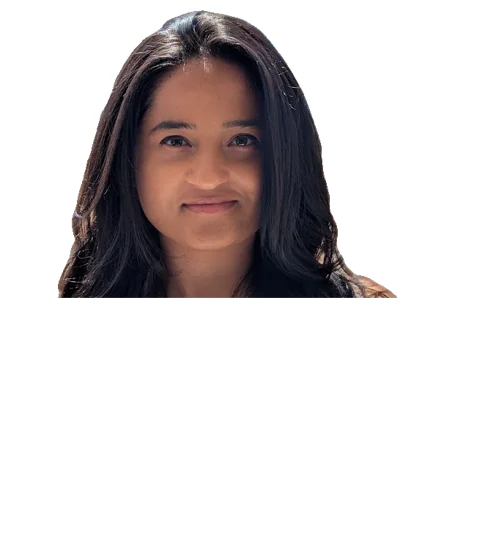
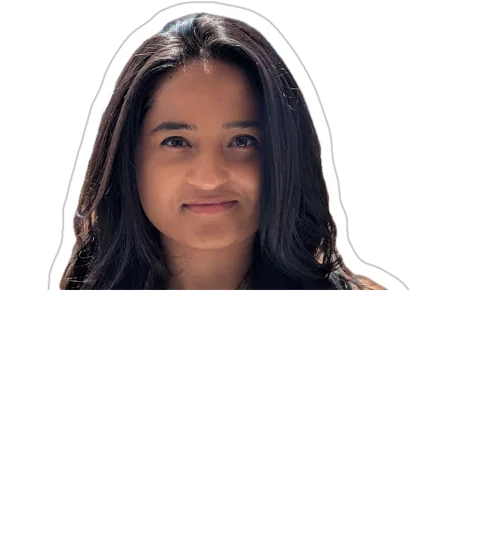
Why me cutout: back to the two-layer version, loop 4s instead of 5s
Claude-Session: https://claude.ai/code/session_01GC3vSxPiEHdqQLqLq9626o

Changed region(s): [[0.0938, 0.0, 0.8438, 0.5504], [0.3125, 0.214, 0.4062, 0.2752], [0.4688, 0.214, 0.5312, 0.2752]]

diff --git a/index.html b/index.html
@@ -1105,17 +1105,13 @@ footer nav a[href]{background:none!important;color:#E4E9EF!important;padding:0!i
 .ag-pop{position:absolute;right:40px;bottom:calc(100% - 84px);width:250px;aspect-ratio:480/556;z-index:0}
 .ag-pop img{position:absolute;inset:0;width:100%;height:100%}
 .ag-wrap .ag-card{position:relative;z-index:1}
-.ag-headl{transform-origin:44.9% 50.9%}
-.ag-hair{transform-origin:44.9% 39%}
-.ag-body{transform-origin:50% 100%}
+.ag-headl{transform-origin:44.9% 50.8%}
 @media (prefers-reduced-motion:no-preference){
-.ag-headl{animation:agNod 2.6s cubic-bezier(.45,0,.3,1.5) infinite}
-.ag-hair{animation:agHair 2.6s cubic-bezier(.45,0,.3,1.4) infinite}
-.ag-body{animation:agShrug 2.6s ease-in-out infinite}
+.ag-headl{animation:agNod 4s cubic-bezier(.5,0,.3,1.4) infinite}
+.ag-body{animation:agBob 4s ease-in-out infinite}
 }
-@keyframes agNod{0%,6%{transform:rotate(0)}14%,34%{transform:rotate(-11deg) translateX(-3px)}42%,62%{transform:rotate(9deg) translate(3px,-3px)}70%,76%{transform:rotate(-3deg)}84%,100%{transform:rotate(0)}}
-@keyframes agHair{0%,10%{transform:rotate(0)}18%,36%{transform:rotate(-9deg) skewX(4deg)}46%,64%{transform:rotate(8deg) skewX(-4deg)}74%,80%{transform:rotate(-2deg)}88%,100%{transform:rotate(0)}}
-@keyframes agShrug{0%,8%{transform:translateY(0) rotate(0)}16%,32%{transform:translateY(-7px) rotate(-2.5deg)}44%,60%{transform:translateY(-4px) rotate(2.5deg)}72%,100%{transform:translateY(0) rotate(0)}}
+@keyframes agNod{0%,14%{transform:rotate(0)}18%,34%{transform:rotate(-8deg)}38%,54%{transform:rotate(6deg) translateY(-2px)}58%,62%{transform:rotate(-3deg)}66%,100%{transform:rotate(0)}}
+@keyframes agBob{0%,100%{transform:translateY(0)}50%{transform:translateY(-3px)}}
 @media (max-width:900px){.ag-wrap{margin-top:140px}.ag-pop{width:170px;right:14px;bottom:calc(100% - 56px)}}
 </style>
 </head>
@@ -1200,7 +1196,7 @@ footer nav a[href]{background:none!important;color:#E4E9EF!important;padding:0!i
 <section id="agency" class="ag">
 <div class="ag-in">
 <div class="ag-head reveal"><span class="wn-kick">Why me</span><h2>Not your typical agency.</h2><p>Agencies sell virality. I build trust that lasts.</p></div>
-<div class="ag-wrap"><div class="ag-pop" aria-hidden="true"><img class="ag-body" src="img/me-body.webp" alt=""><img class="ag-hair" src="img/me-hair.webp" alt=""><img class="ag-headl" src="img/me-head.webp" alt=""></div><div class="ag-card reveal">
+<div class="ag-wrap"><div class="ag-pop" aria-hidden="true"><img class="ag-body" src="img/me-body.webp" alt=""><img class="ag-headl" src="img/me-head.webp" alt=""></div><div class="ag-card reveal">
 <div class="ag-row ag-top"><span></span><span class="ag-th"><span class="ag-team" aria-hidden="true"><i></i><i></i><i></i></span>Typical agency</span><span class="ag-th ag-me">With me</span></div>
 <div class="ag-row"><span class="ag-k">Who you work with</span><span class="ag-old">A non-technical agency team</span><span class="ag-new">A former product manager and marketer who gets your product</span></div><div class="ag-row"><span class="ag-k">What you get</span><span class="ag-old">Virality that doesn’t last</span><span class="ag-new">Proof that builds lasting trust</span></div><div class="ag-row"><span class="ag-k">How it’s scoped</span><span class="ag-old">Retainers with no end date</span><span class="ag-new">Clear timeline, clear deliverables</span></div>
 </div>
